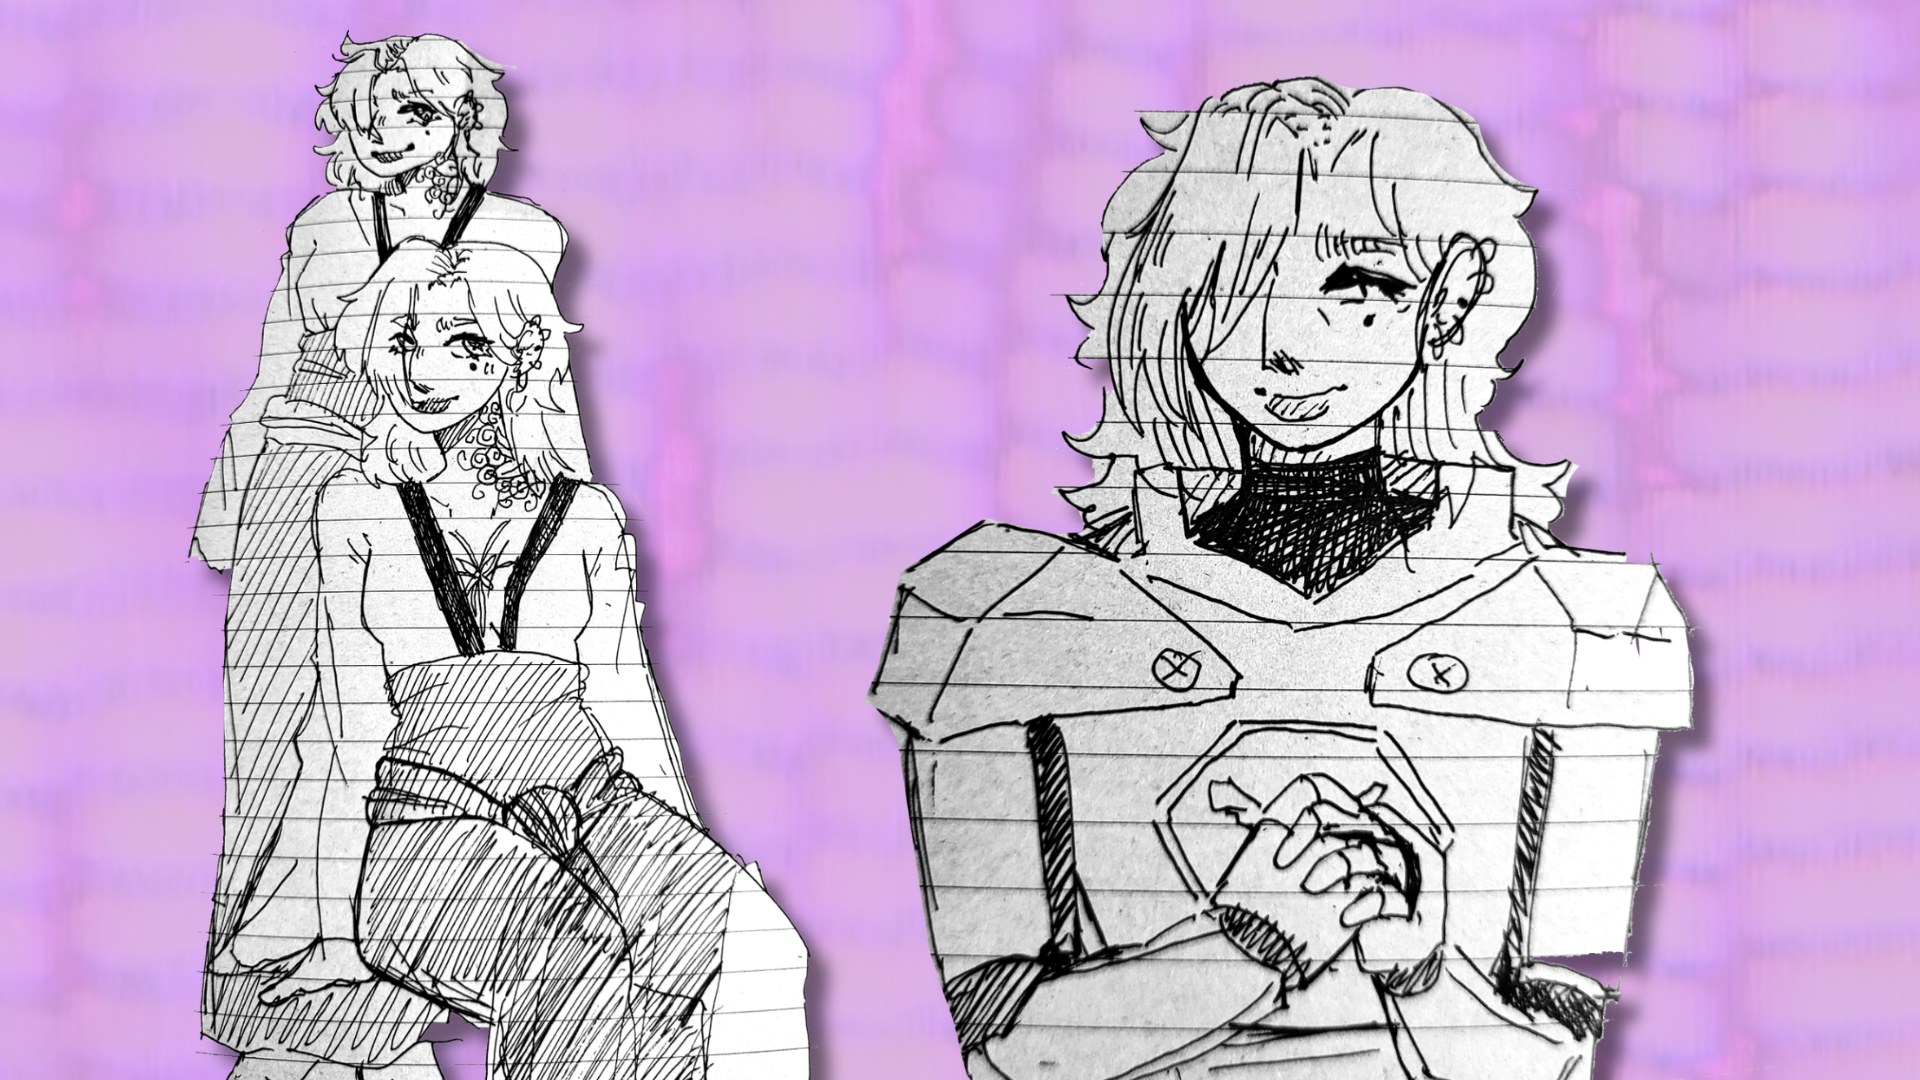
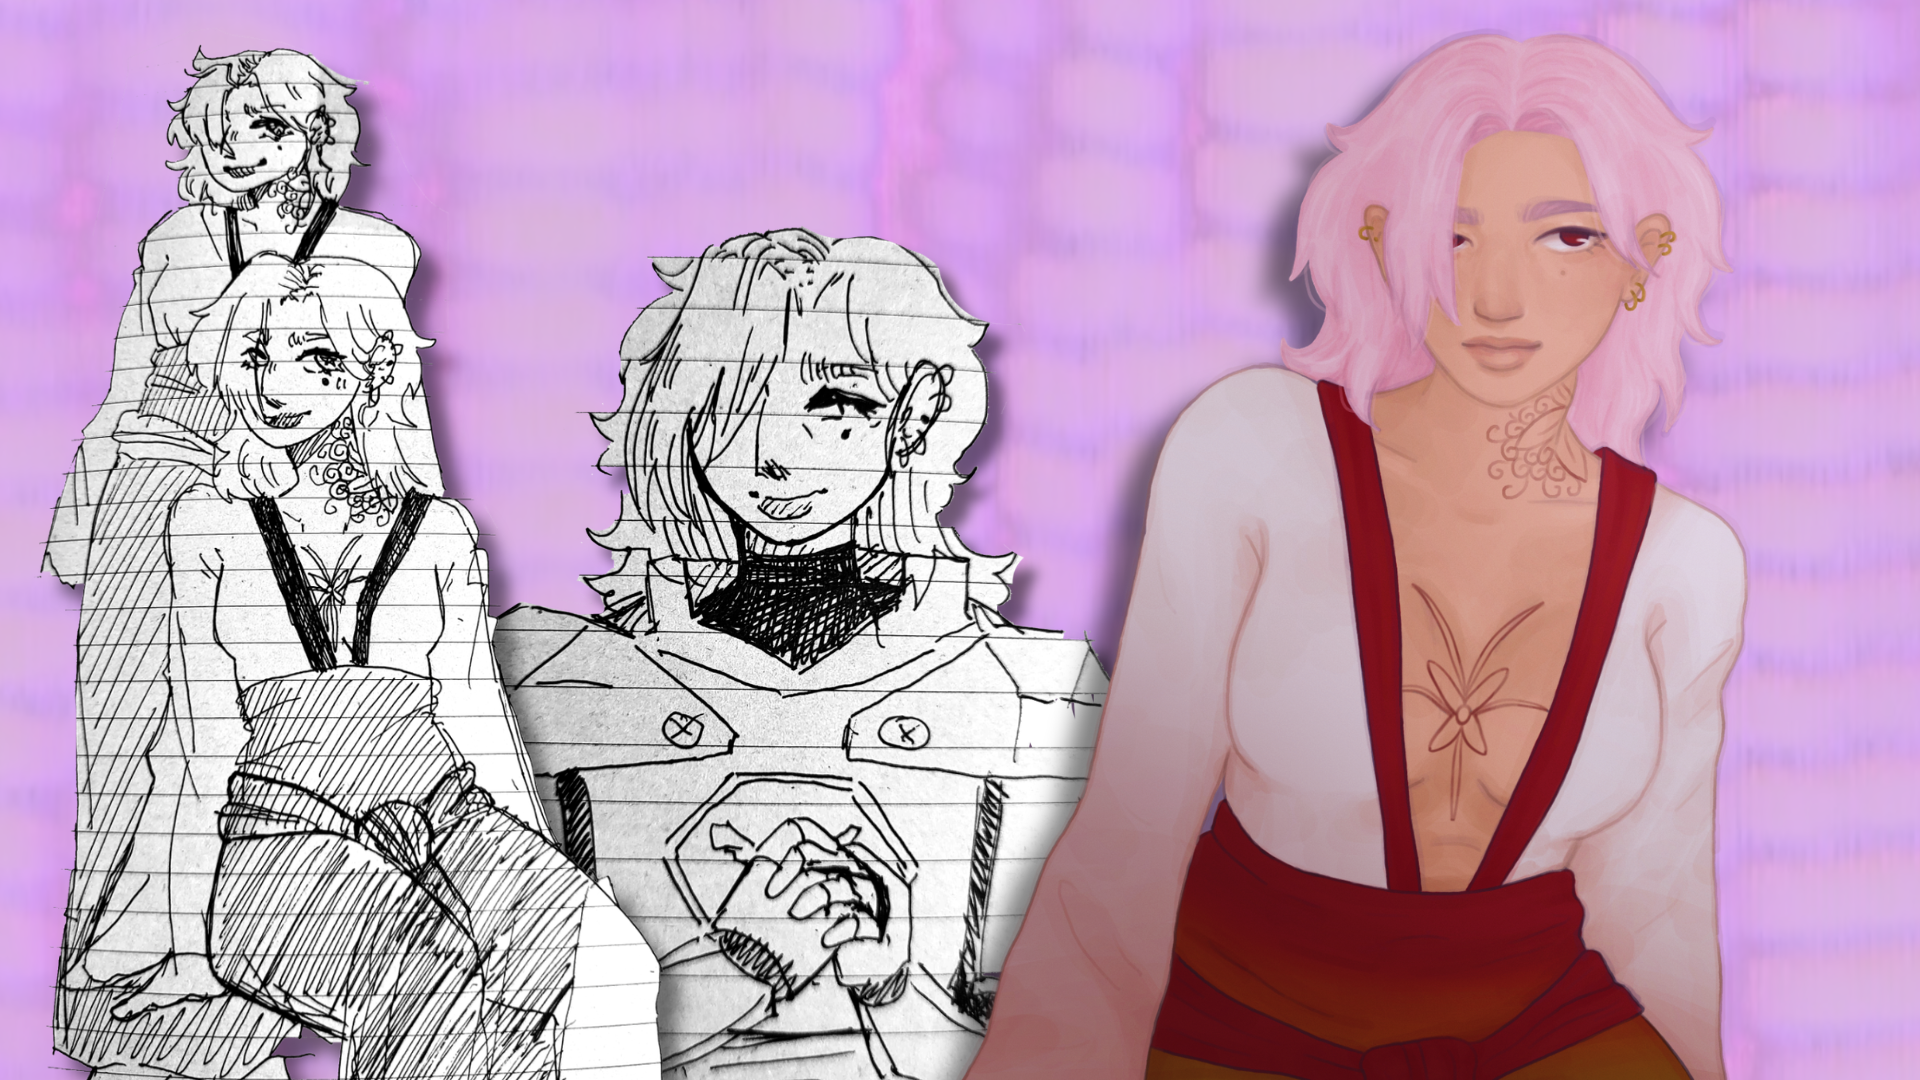
changed SeleneView

diff --git a/src/views/SessionsView.vue b/src/views/SessionsView.vue
@@ -68,7 +68,6 @@ const filtered = computed(() =>
   overflow: hidden;
 }
 
-/* Bild füllt die ganze Card */
 .session-card img {
   position: absolute;
   inset: 0;
@@ -81,9 +80,9 @@ const filtered = computed(() =>
   transform: scale(1.08);
 }
 
-/* Text-Block unten, mit stärkerem Gradient */
 .session-text {
   position: relative;
+  text-decoration: none;
   z-index: 2;
   padding: 0.75rem 1rem 0.85rem;
   background: linear-gradient(to top, rgba(0,0,0,0.92) 0%, rgba(0,0,0,0.5) 60%, transparent 100%);
